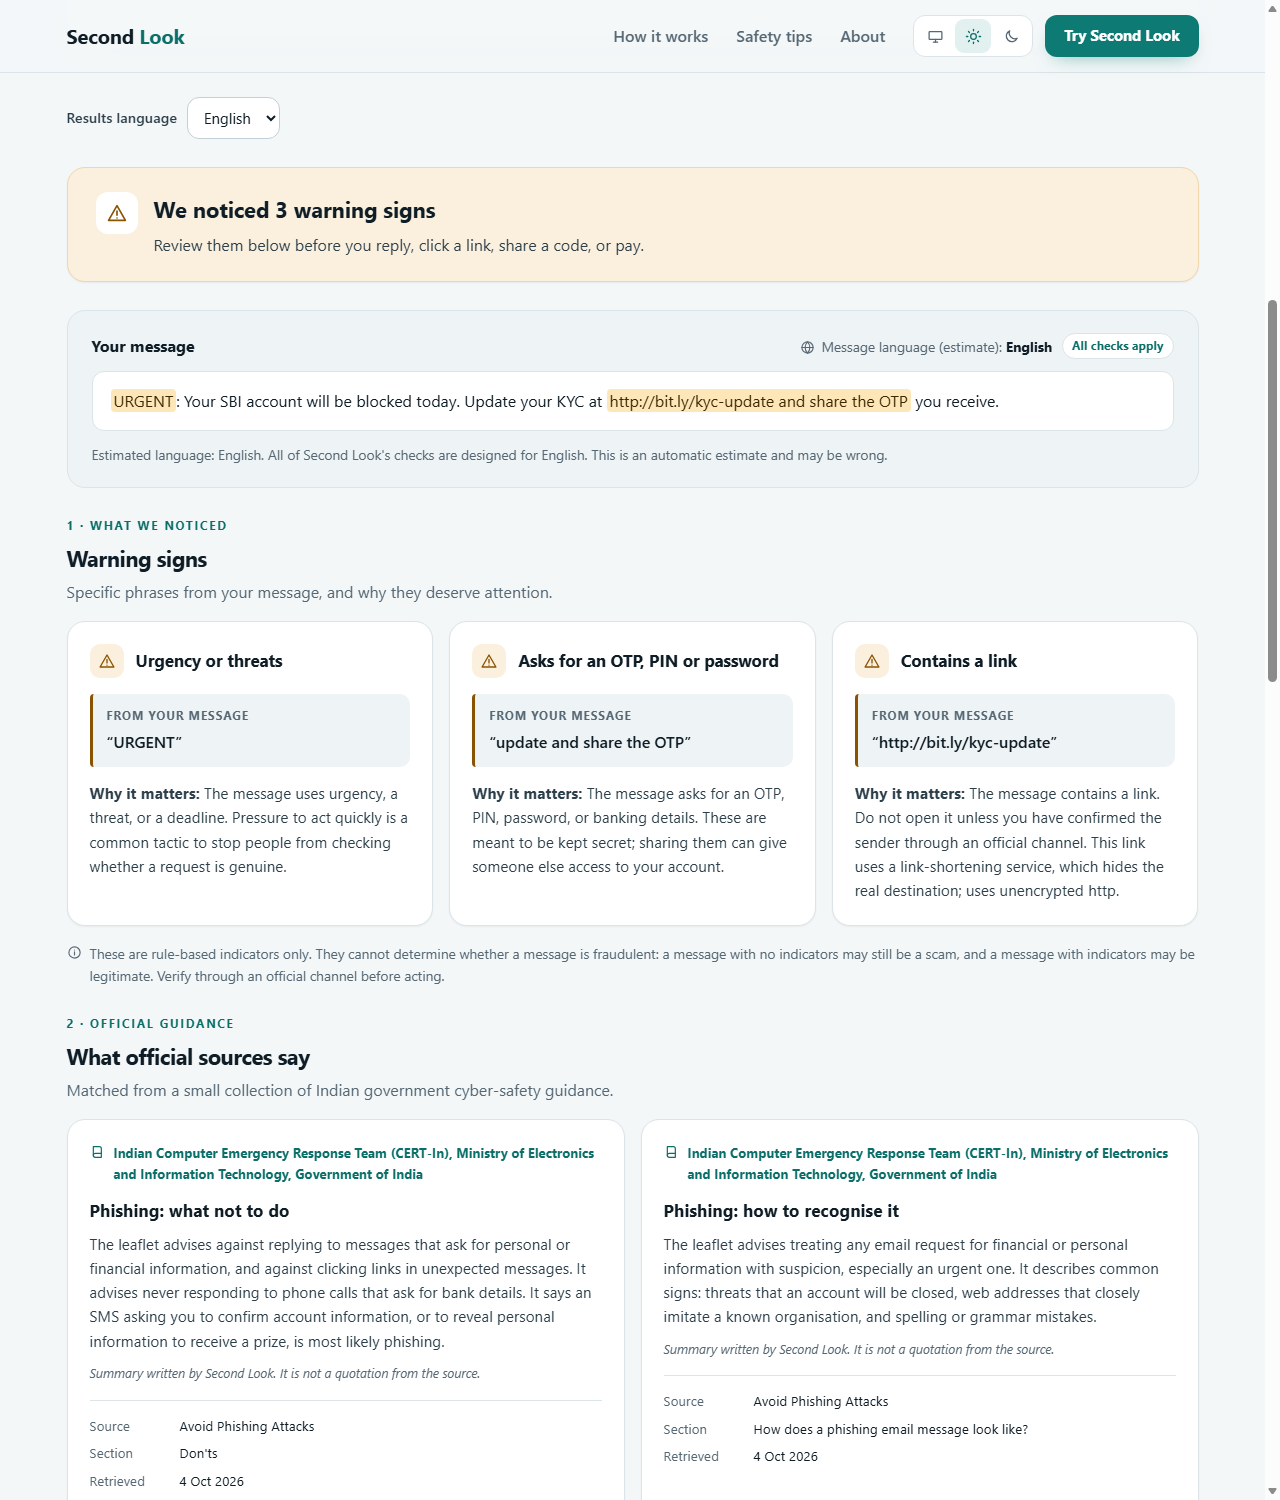
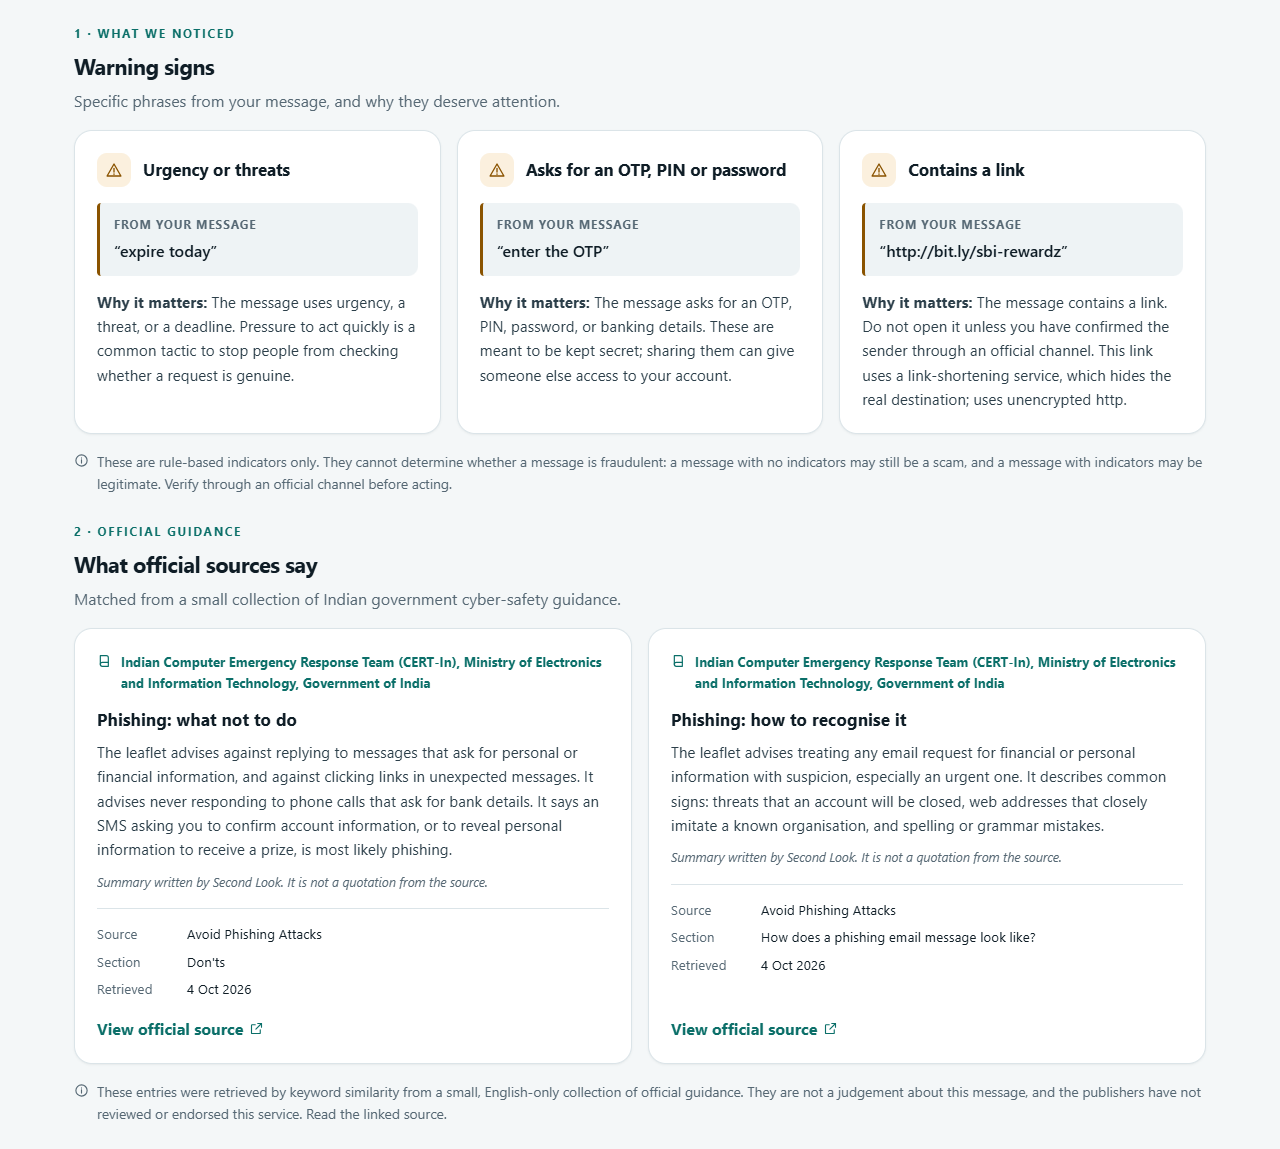
docs: add agent screenshots; show the full report and number the agent's steps

diff --git a/frontend/src/styles.css b/frontend/src/styles.css
@@ -1244,7 +1244,13 @@ textarea {
   display: grid;
   gap: 10px;
   margin: 12px 0 0;
-  padding-left: 1.4em;
+  padding-left: 1.6em;
+  list-style: decimal;
+}
+
+.agent__step::marker {
+  color: var(--text-muted);
+  font-weight: 600;
 }
 
 .agent__step > * {
@@ -1315,7 +1321,7 @@ textarea {
 }
 
 .agent__report-text {
-  max-height: 320px;
+  max-height: 560px;
   margin: 0;
   padding: 12px 14px;
   overflow: auto;

diff --git a/README.md b/README.md
@@ -6,6 +6,8 @@ Second Look helps people in India take a second look at a suspicious SMS, WhatsA
 
 It does not decide whether a message is a scam. It shows evidence and official advice, and it says plainly what it could not check.
 
+An optional AI agent can run the investigation for you. It chooses which checks to run, asks what has happened, and prepares a report you can copy. Its limits are enforced in code, so a scam message cannot talk it into calling anything safe.
+
 - **Live app:** https://second-look-ai-1.onrender.com
 - **Backend health check:** https://second-look-ai.onrender.com/health
 - **Source:** https://github.com/maimunaafrah341-maker/second-look-ai
@@ -26,6 +28,7 @@ Second Look takes a different approach. It slows the reader down, shows exactly 
 
 | Feature | What you see |
 | --- | --- |
+| AI agent (optional) | A language model picks which checks to run, shows each step and its reason, asks one fixed question, and prepares a report to copy. It sends the message to Google or Groq, and says so before you press the button |
 | Warning signs | Up to four rule-based findings, each with the exact excerpt from your message and a plain-language reason |
 | Official guidance | Matching passages from Indian government cyber-safety documents, with publisher, section, date and a link to the source |
 | Safer next steps | General steps for any suspicious message, plus a "What happened next?" chooser for people who have already clicked, shared details or lost money |
@@ -33,11 +36,29 @@ Second Look takes a different approach. It slows the reader down, shows exactly 
 | Honest coverage | A label and summary that say when a message was only partly checked, or not checked at all |
 | Auxiliary signal | An experimental spam-likeness label, shown last and clearly marked as not a fraud judgement |
 
+### The AI agent
+
+The agent shows every step it took and why, then asks its one question. The answers are fixed choices, so nothing typed by the person reaches the model except the message itself.
+
+![The agent's steps with a reason for each, and its question with four fixed answers](docs/screenshots/agent-question-light.png)
+
+After the answer it looks up the official steps, prepares a report and writes a short summary. The summary is shown only if it passes a check that rejects any statement that the message is, or is not, a scam. The report is filled in by code from a fixed template.
+
+![The agent's summary, the report to copy, and the official steps with a Call 1930 button](docs/screenshots/agent-finished-light.png)
+
+With Hindi results the report is laid out in Hindi. The message and the quoted excerpts stay exactly as received.
+
+![The report in Hindi, with a link to see it in English](docs/screenshots/agent-report-hindi-light.png)
+
 ### English results
+
+The warning signs and official guidance are the same with or without the agent.
 
 ![Results for an English message, light theme](docs/screenshots/results-english-light.png)
 
 ### Hindi results, dark theme
+
+This screenshot and the two after it were taken before the agent was added, so they do not show its section.
 
 The same analysis, presented in Hindi. The message, the quoted excerpts and the names of official sources are never translated. The Hindi text was written by this project and has not been reviewed by a language specialist; the app says so on screen.
 
